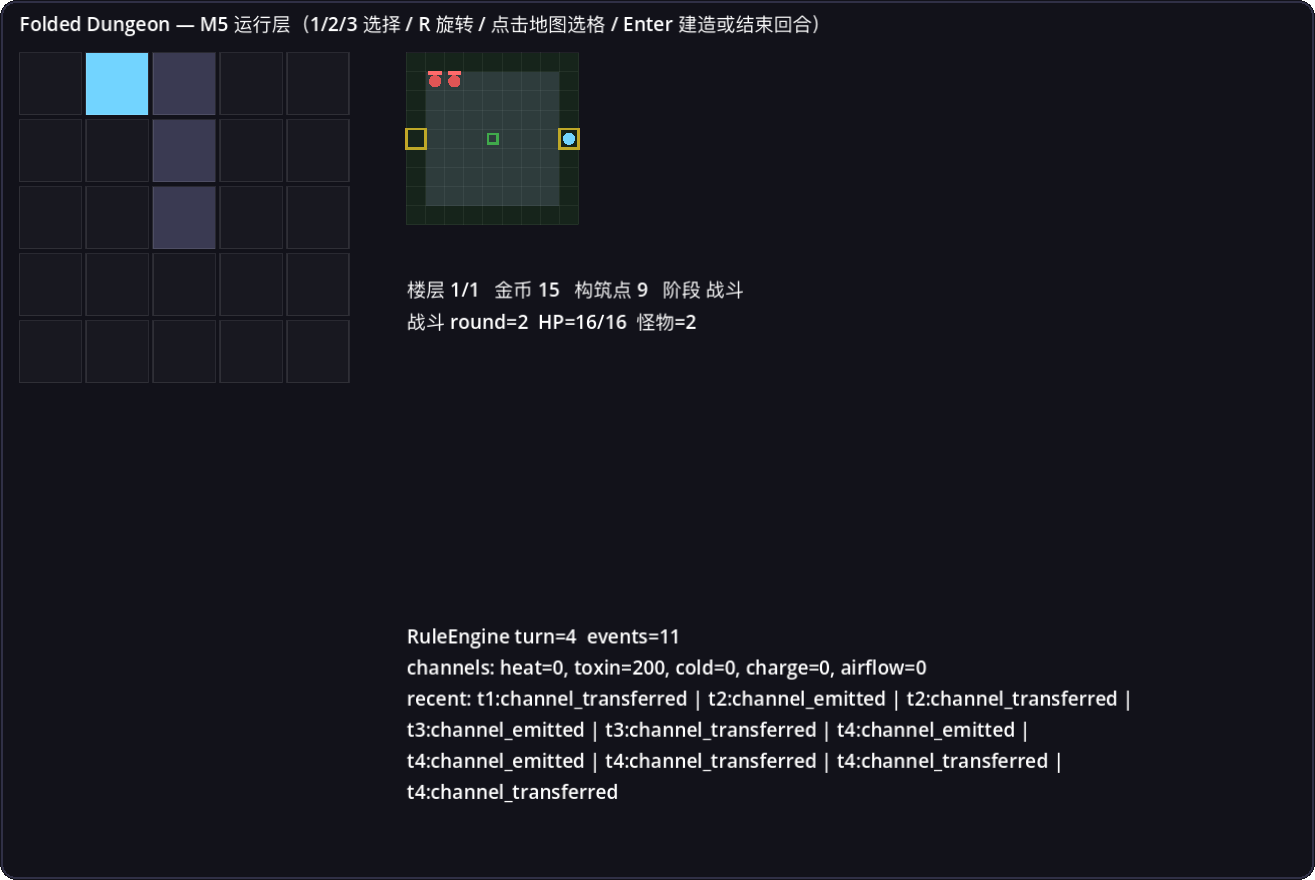
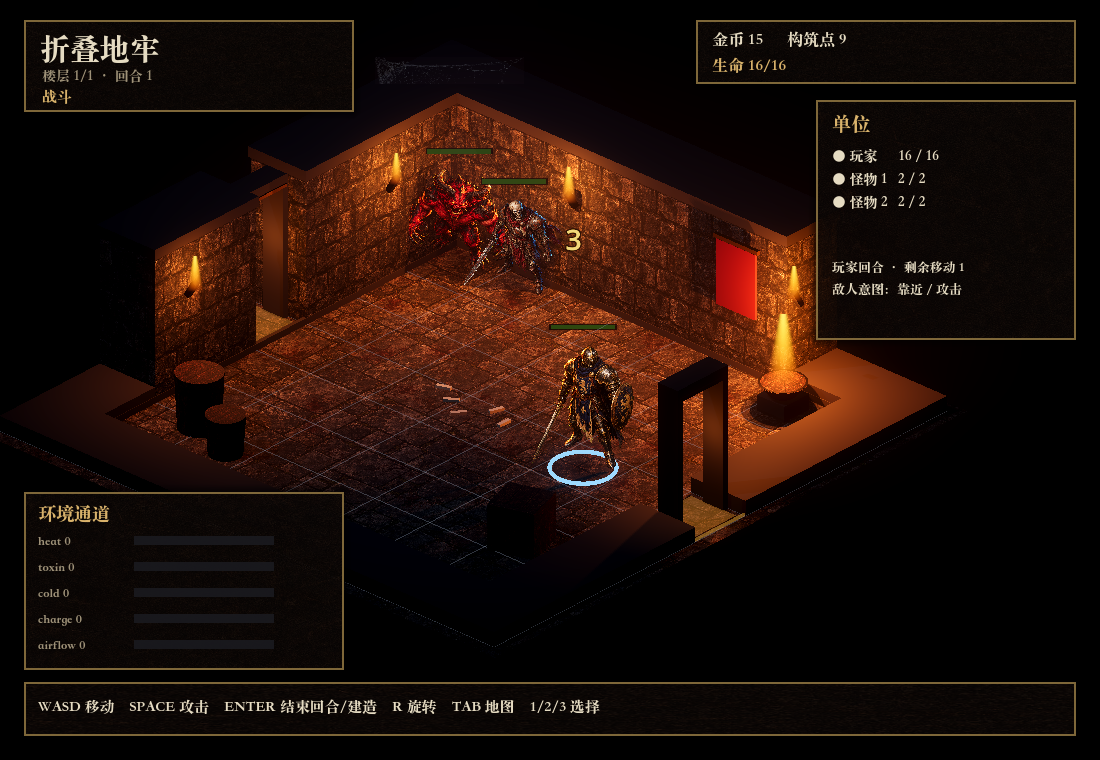
docs: M6-1 实施记录与 README/文档同步
- docs/09 增加 M6-1 实施记录与已知差距；docs/07/05/08、README、项目 SKILL 同步 2.5D 第一版
- README 实机截图替换为 2.5D 战斗画面，状态/下一步更新

diff --git a/README.md b/README.md
@@ -36,15 +36,15 @@
 | **5 条环境通道** | HEAT / TOXIN / COLD / CHARGE / AIRFLOW：一跳传导 + 3 个反应配方（爆燃 / 冷热相消 / 充能释放） |
 | **回合制战术战斗** | 玩家阶段 → 怪物追击 → 环境结算；击退撞墙、燃烧 / 中毒 / 冰冻、Boss 房间能力 |
 | **完整单局循环** | 蓝图 3 选 1 → 构筑 → 探索穿门 → 战斗 / 事件 / 休整 / 商店 → 奖励 → Boss → 结算 |
-| **可玩 GUI 运行层** | 主场景 `run_mode.tscn`：左 5×5 地图、右 9×9 房间、下规则事件面板，键鼠均可操作 |
+| **可玩 GUI 运行层** | 主场景 `run_mode_3d.tscn`：3D 正交斜俯视房间 + AI 立绘单位 + 皮革悬浮 HUD，键鼠均可操作 |
 | **存档与复现** | 构筑节点 JSON 快照；同种子楼层 / 蓝图选项可复现；事件日志可回放 |
 | **确定性测试** | 86 tests / 1472 assertions 全绿，含 12×12 = 144 组房间组合矩阵；CI 每次 push/PR 自动跑 |
 
 <p align="center">
-  <img src="./assets/readme/prototype.png" width="100%" alt="M5 可玩运行层实机截图：左侧 5×5 构筑地图，中间 9×9 战斗房间（怪物、玩家、毒素染色），下方规则引擎通道值与事件日志">
+  <img src="./assets/readme/prototype.png" width="100%" alt="M6-1 2.5D 运行层实机截图：3D 石材地牢房间、火把与火盆、AI 立绘骑士与怪物、皮革悬浮 HUD">
 </p>
 <p align="center">
-  <sub>M5 可玩运行层实机（占位美术，D11 待定）· 操作见 <a href="docs/05-GUI运行层说明.md">docs/05</a></sub>
+  <sub>M6-1 2.5D 运行层实机（第一版，质量门打磨中）· 操作见 <a href="docs/05-GUI运行层说明.md">docs/05</a></sub>
 </p>
 
 ## 房间之间怎么联动
@@ -91,7 +91,7 @@ cd folded-dungeon
 export GODOT_BIN=/path/to/Godot_v4.7.2-stable
 
 game/tools/godot test    # 无头回归：31 cases / 86 tests / 1472 assertions
-game/tools/godot run     # 打开可玩 GUI 运行层
+game/tools/godot run     # 打开可玩 2.5D GUI 运行层
 ```
 
 <details>
@@ -152,13 +152,13 @@ game/
 
 **已知限制（原型阶段）：**
 
-- 美术为占位色块（D11 已定 **2.5D 暗黑地牢 = 3D 场景 + AI 立绘单位 + D 主视觉**，达标房 v1 已验收；方案见 [`docs/09`](docs/09-视觉与手感升级方案（M6）.md)，M6 待实施），无音频；
+- 美术已进入 **2.5D 第一版**（3D 场景 + AI 立绘单位，主场景已切换；v2 质量门打磨中），音频/正式美术细节待 M6 剩余步骤；
 - Windows 导出预设已就绪，但本机缺 4.7.2 导出模板，尚未实际出包；
 - 折叠仅实现虚拟传导边，折叠移动 / UI 待扩展；
 - 投射物为房间级抽象（逐格弹道、风暴 / 重力偏转待后续）；
 - GUI 尚未人工试玩验收（手感 / 布局待记录）。
 
-**下一步：** M6 视觉与手感升级（D11=B 2.5D，方案 [`docs/09`](docs/09-视觉与手感升级方案（M6）.md)）→ 音频 → 导出模板 + Windows 冒烟 → 人工试玩调参 → D10 局外成长与折叠移动扩展。详见 [`docs/08-发布检查清单`](docs/08-发布检查清单.md)。
+**下一步：** M6-1 v2 质量门（立绘融合/门洞远景/道具/UI 细化）→ M6-2 房间与构筑 → M6-3 战斗表现 → M6-4 UI/标题 → M6-5 音频 → M6-6 验收；方案 [`docs/09`](docs/09-视觉与手感升级方案（M6）.md)。详见 [`docs/08-发布检查清单`](docs/08-发布检查清单.md)。
 
 ## 文档
 

diff --git a/docs/09-视觉与手感升级方案（M6）.md b/docs/09-视觉与手感升级方案（M6）.md
@@ -1,10 +1,21 @@
 # 09 · 2.5D 暗黑地牢视觉与手感方案（M6）
 
 > 状态：**D11 已定稿（2026-10-31）：B 路线 = 3D 场景 + AI 2D 立绘单位（2.5D 暗黑地牢）**。
-> 达标房 v1 已通过方向验收（"差不多，按这个做"）；本方案替代早期"16×16 像素"方案（像素版只保留在 `docs/art-concepts/` 与 git 历史）。
+> 达标房 v1 已通过方向验收（"差不多，按这个做"）；**M6-1 第一版已落地**（2026-10-31：3D 房间 + 立绘单位 + 皮革 HUD 接入真实牌局，截图见 §2.1）。本方案替代早期"16×16 像素"方案（像素版只保留在 `docs/art-concepts/` 与 git 历史）。
 > 基准图：[`docs/art-concepts/targets/2.5d/bench-room-v1.png`](art-concepts/targets/2.5d/bench-room-v1.png)；可执行任务见 [`.agents/plans/2026-10-31-M6-视觉与手感升级.md`](../.agents/plans/2026-10-31-M6-视觉与手感升级.md)。
 
 ![达标房 v1（真引擎渲染）](art-concepts/targets/2.5d/bench-room-v1.png)
+
+### 2.1 M6-1 第一版实施记录（2026-10-31）
+
+- 主场景切换为 `game/presentation/run_mode/run_mode_3d.tscn`（Forward+、3D 正交相机、皮革悬浮 HUD）；
+- `Room3D` 由 `RoomLayout` 生成：地面/墙体/四朝向门/道具/光效/通道地表；`Unit3D` 用 AI 立绘 + 地面投影 + 血条；
+- 接入真实 `RunController`：构筑（1/2/3 + 鼠标选格 + R + Enter）、探索、战斗（WASD/Space/Enter）、事件/休整/商店、结算、相机跟随；
+- 资产入库：`game/assets/art3d/{materials,units,manifests}`；生成/后处理脚本 `game/tools/art/`；
+- 测试：**33 cases / 92 tests / 1520 assertions 全绿**；新增资产清单与门位映射测试；
+- 截图：`docs/screenshots/m6-1-{build,explore,battle}.png`。
+
+**已知差距（v2 质量门待改进）：** ①立绘"贴上去"感仍存在（缺攻击/受击姿态与更融的光影）；②门洞外是纯黑 void，缺少远景/雾；③HUD 信息层级/图标未细化；④道具与地面细节仍偏少；⑤音效未接。这些留给 M6-1 v2 与 M6-2/3。
 
 ---
 

diff --git a/docs/08-发布检查清单.md b/docs/08-发布检查清单.md
@@ -18,7 +18,7 @@ game/tools/godot import
 - [x] `game/tools/godot test` 全绿（31 cases / 86 tests / 1472 assertions）；
 - [x] 主场景 `presentation/run_mode/run_mode.tscn` 无头运行退出码 0；
 - [x] GUI 运行层：构筑（1/2/3 选蓝图、鼠标选格、R 旋转、Enter 建造）→ 探索（WASD）→ 战斗（WASD/SPACE/Enter）→ 事件/休整/商店（1/2/3）→ Boss → 结算；
-- [ ] 人工 GUI 试玩验收（需要有人实际打开窗口走完一局；当前 CI/无头环境只验证加载与逻辑）。
+- [ ] 人工 GUI 试玩验收（M6-1 起主场景切到 2.5D；需要实际打开窗口走完一局，当前 CI/无头只验证加载与逻辑）。
 
 ## 2. 内容与规则
 
@@ -57,7 +57,7 @@ game/tools/godot import
 
 | # | 问题 | 影响 | 备注 |
 |---|---|---|---|
-| K1 | 美术为占位色块 | 可玩但不可发布 | 等 D11 |
+| K1 | 美术：2.5D 第一版已接入，细节/立绘融合仍在打磨 | 可玩但不可发布 | M6-1 v2 → M6-4 |
 | K2 | 无音频 | 体验缺失 | 后续 |
 | K3 | 局外成长未实现 | 长线动力不足 | D10 决策后置 |
 | K4 | 逐格弹道/风暴/重力投射物改写未实现（房间级抽象） | 战术表现较粗 | M3 记录 |

diff --git a/.agents/plans/2026-10-31-M6-视觉与手感升级.md b/.agents/plans/2026-10-31-M6-视觉与手感升级.md
@@ -4,7 +4,7 @@
 
 - **目标：** 在已验收的 2.5D 达标房 v1 基础上，把运行层升级为"3D 场景 + AI 暗黑立绘单位"的完整游戏画面：房间/光照/材质/立绘单位/特效/皮革 HUD/标题/音频，最终产出可录 GIF、可展示的版本。
 - **成功标准：** `docs/09-视觉与手感升级方案（M6）.md` §9 的 V1–V8（画面辨识度、1 秒可读、≤150ms 反馈、双编码、测试全绿、60fps、资产可复现、README 更新）。
-- **当前结论：** D11 定稿为 **B 路线（3D 房间 + AI 2D 立绘单位）**；达标房 v1 已通过方向验收（基准图 `docs/art-concepts/targets/2.5d/bench-room-v1.png`），**M6 待开工**。
+- **当前结论：** D11 定稿为 **B 路线（3D 房间 + AI 2D 立绘单位）**；达标房 v1 已通过方向验收；**M6-1 第一版已落地**（主场景 3D 化、资入库、测试 92/1520 全绿），v2 质量门待评审。
 - **不动的部分：** `game/core/` 模拟层、既有 86 tests/1472 assertions、AI 技能目录、发布配置。
 
 ## 人话版

diff --git a/docs/07-美术方向与占位说明.md b/docs/07-美术方向与占位说明.md
@@ -2,7 +2,7 @@
 
 > 状态：**D11 已定稿（2026-10-31）：2.5D 暗黑地牢 = 3D 场景 + AI 2D 立绘单位；主视觉/封面 = D 折叠地牢。**
 > 达标房 v1 已通过方向验收；方案与验收：[`docs/09`](09-视觉与手感升级方案（M6）.md) · 任务拆解：[`.agents/plans/2026-10-31-M6-视觉与手感升级.md`](../.agents/plans/2026-10-31-M6-视觉与手感升级.md) · 基准图/素材：[`docs/art-concepts/targets/2.5d/`](art-concepts/targets/2.5d/)
-> 实施前游戏内仍使用**占位色块 + Palette**。
+> **M6-1 第一版已落地**：主场景已切到 2.5D 运行层（`run_mode_3d.tscn`），截图见 `docs/screenshots/`；v2 质量门与剩余界面/音频待 M6-2…M6-6。
 
 ## 1. 当前占位方案
 

diff --git a/docs/05-GUI运行层说明.md b/docs/05-GUI运行层说明.md
@@ -1,4 +1,6 @@
-# 05 · GUI 运行层说明（M5 可玩版本）
+# 05 · GUI 运行层说明（M5 可玩版本，M6 起主场景已切 2.5D）
+
+> **M6-1 起**：主场景为 `game/presentation/run_mode/run_mode_3d.tscn`（3D 房间 + 立绘单位 + 皮革 HUD）；旧的 `run_mode.tscn` 仅保留给回归测试。本篇操作语义仍适用，界面截图待 M6-4 更新。
 
 > 场景：`game/presentation/run_mode/run_mode.tscn`（`project.godot` 主场景）
 > 运行：`game/tools/godot run`
